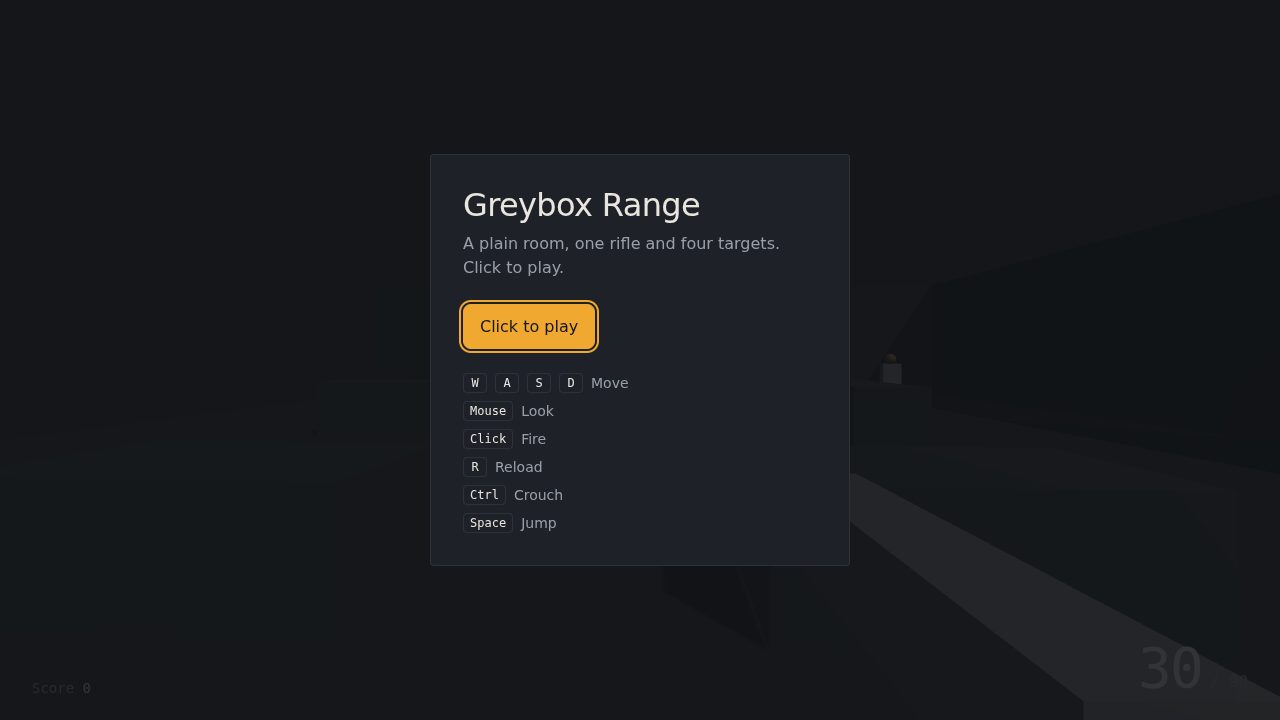
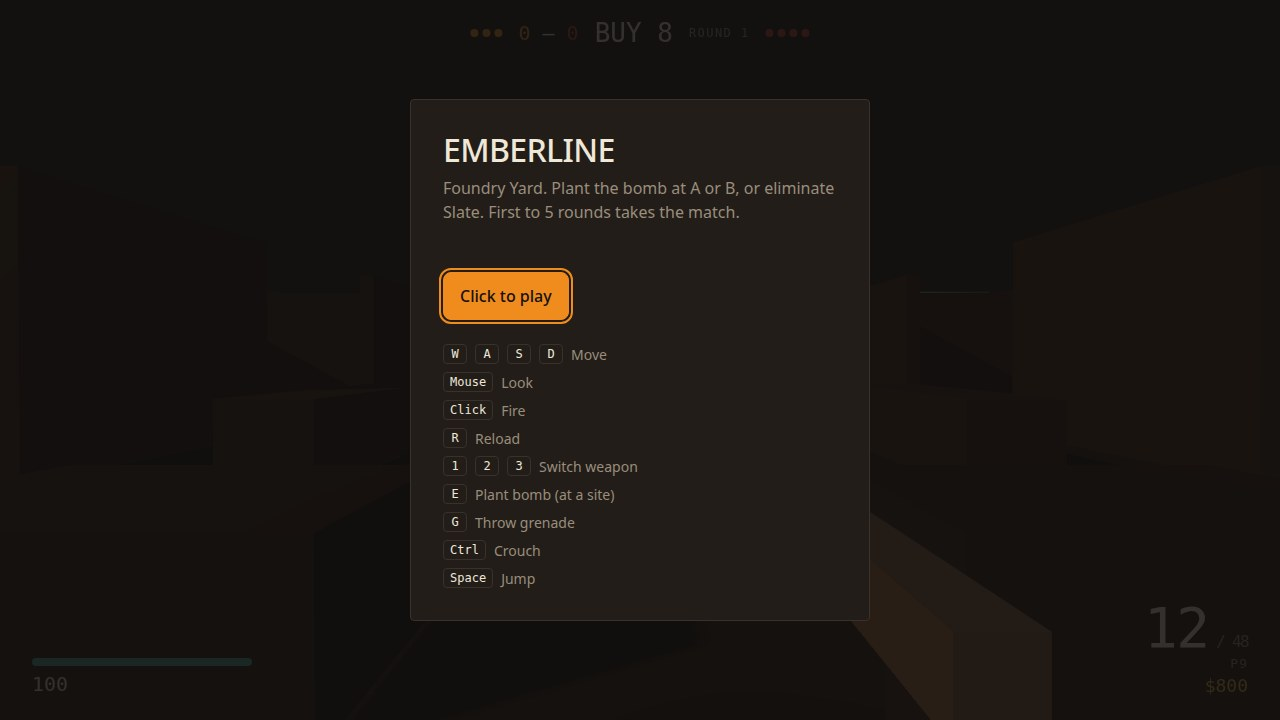
Screenshots: real renders (start/play/end) + fix end-shot camera inside site A

diff --git a/game/src/main.js b/game/src/main.js
@@ -537,7 +537,8 @@ function runShot(name) {
     world.bomb.position.set(-14, 0.11, -10);
     world.bomb.visible = true;
     bots.spawnRound();
-    player.state.position.set(-6, 0, -3);
+    // Camera inside site A (west side, clear of furnace + heat shield) looking at the bomb.
+    player.state.position.set(-17, 0, -8);
     settle(20);
     aimAt(new THREE.Vector3(-14, 0.6, -10));
     hud.setBomb('BOMB A — 0:32');
